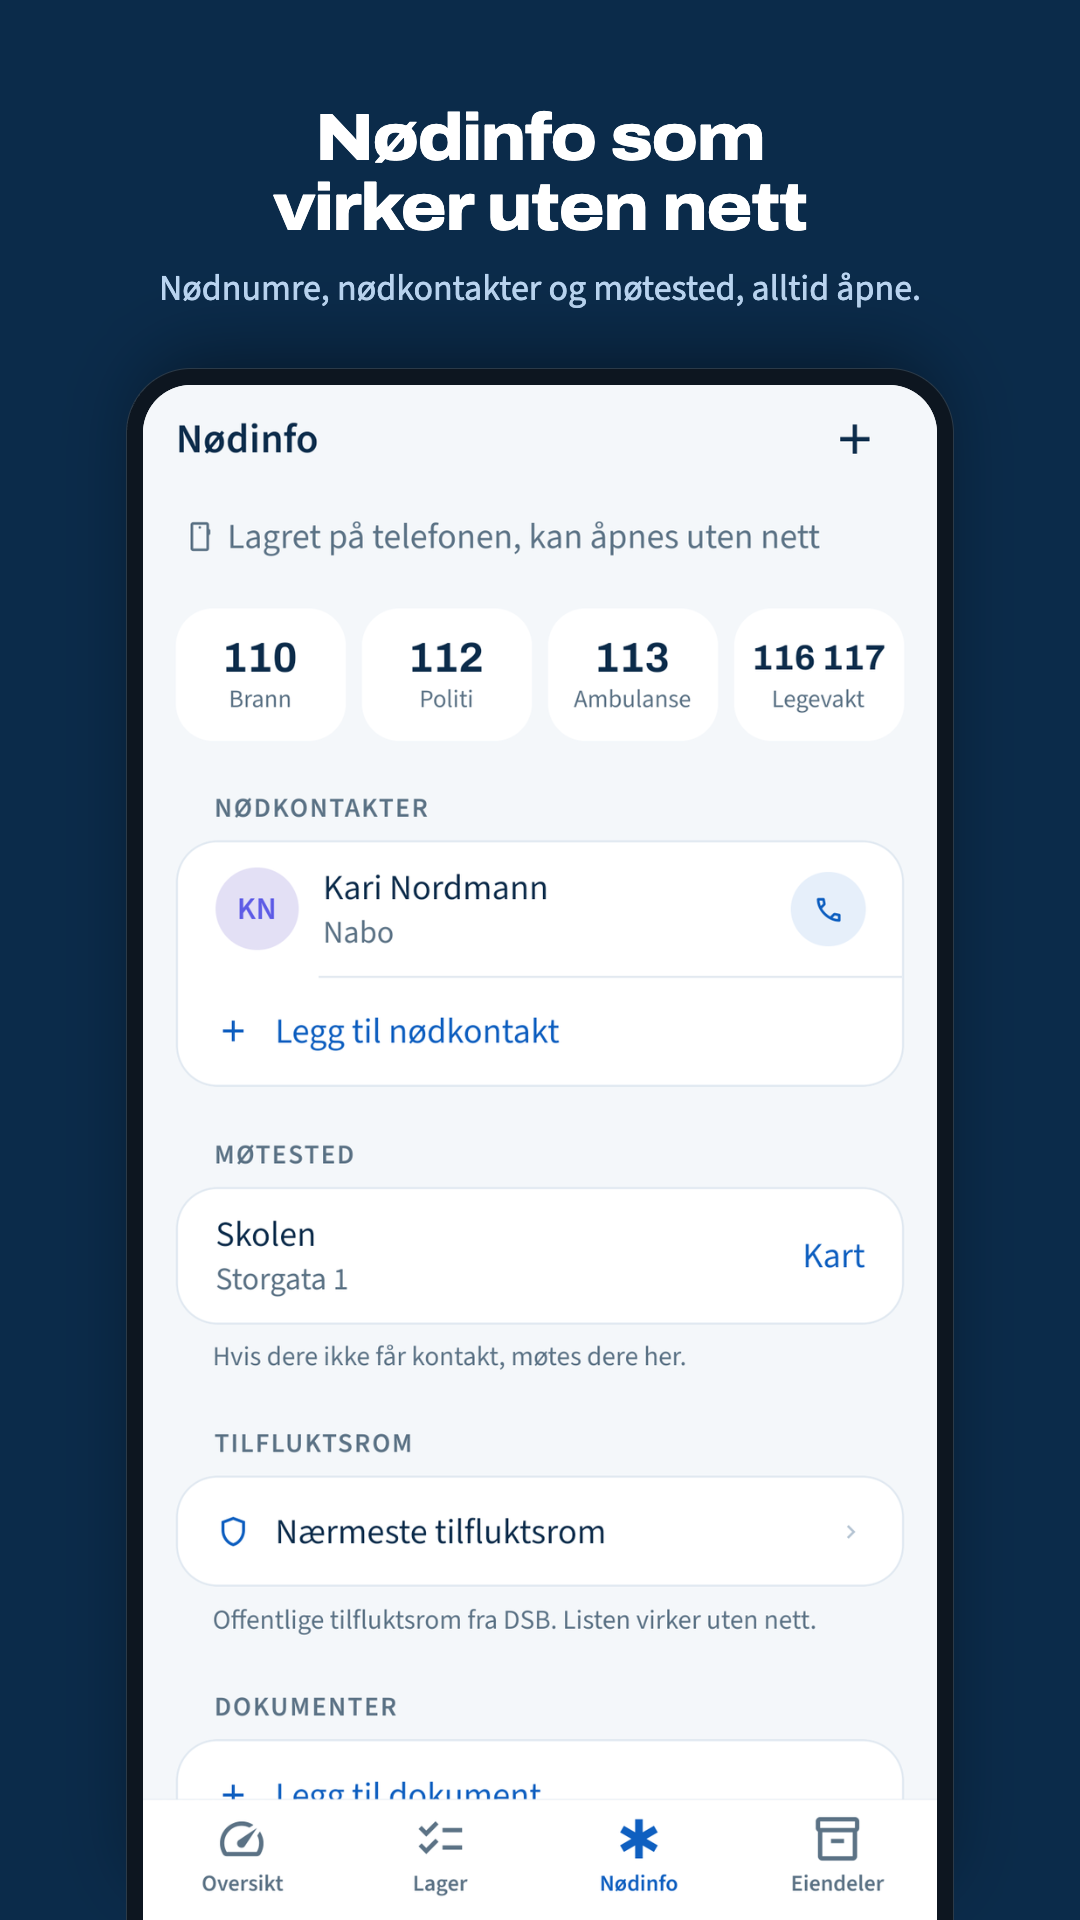
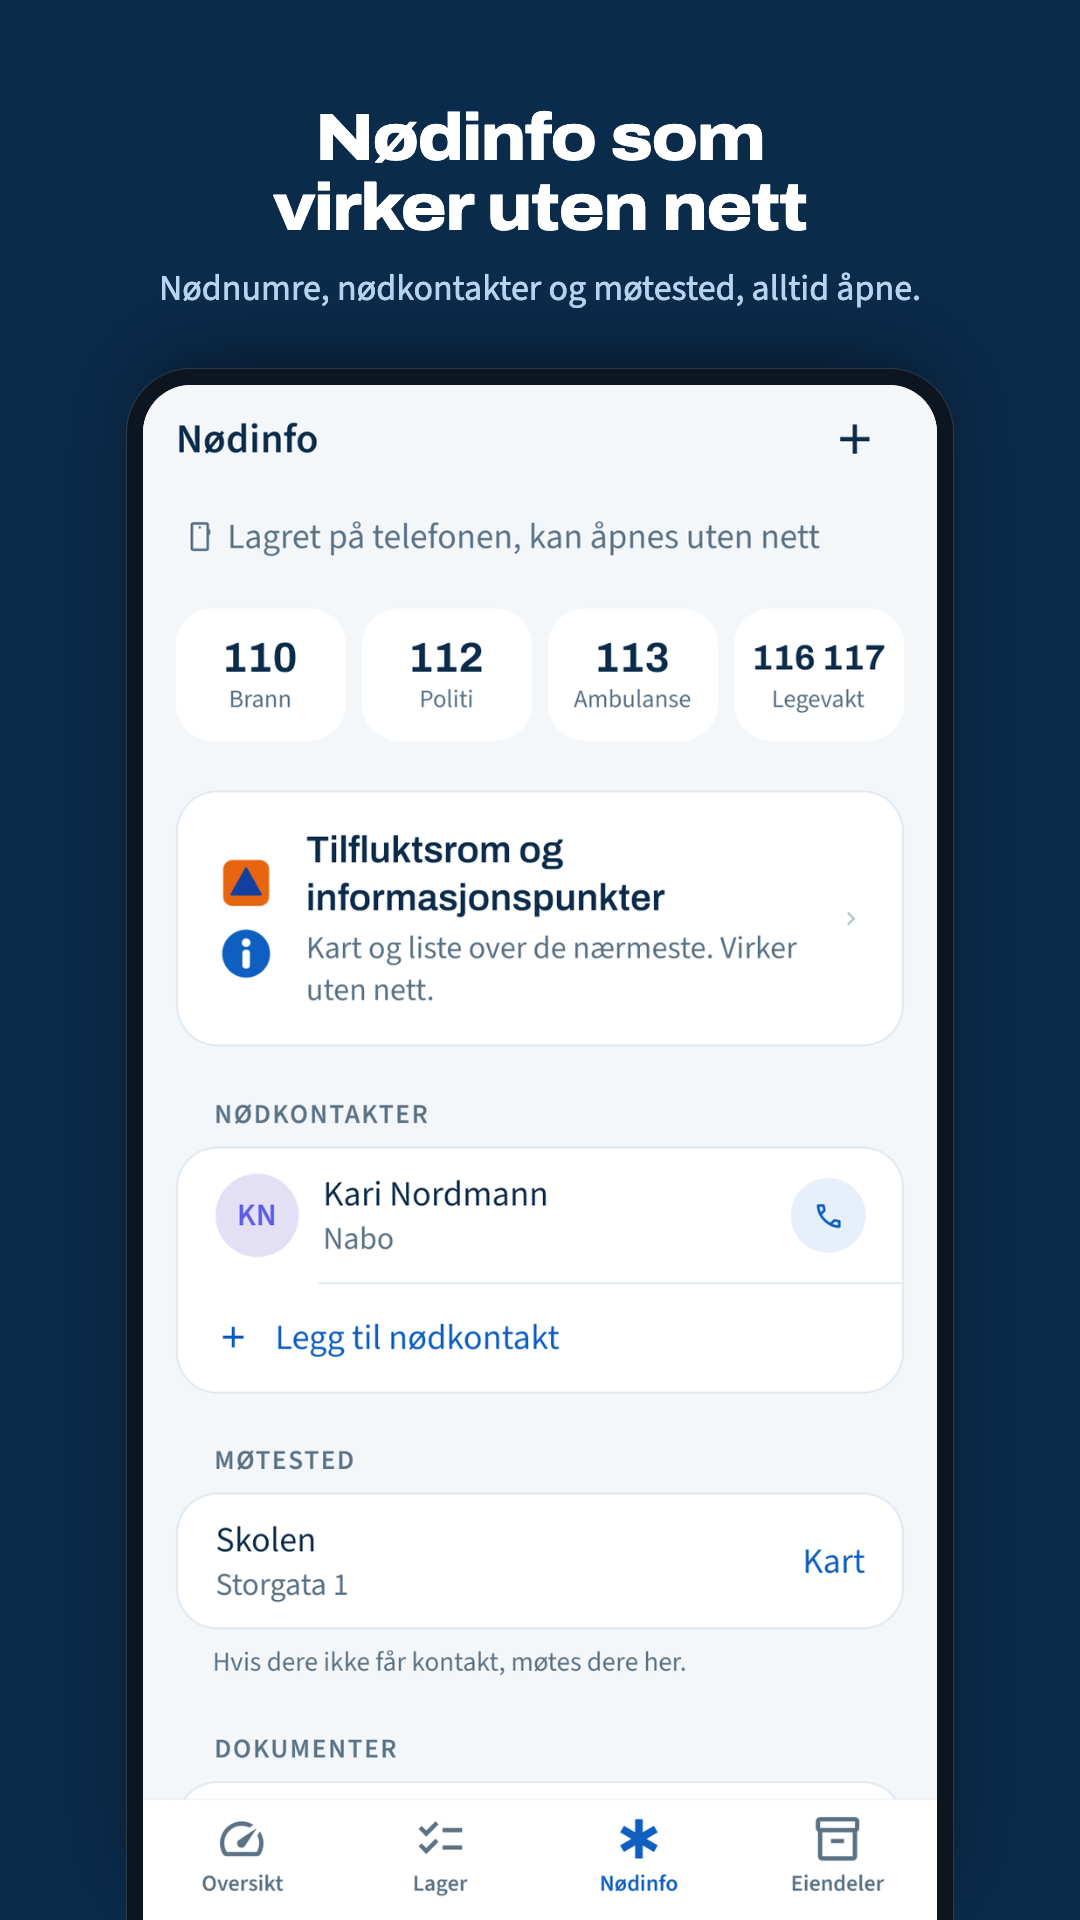
Store: Nødinfo screenshot with the new card, 1.7.1 release notes

diff --git a/docs/store/listing.md b/docs/store/listing.md
@@ -118,3 +118,15 @@ Nytt: Nærmeste tilfluktsrom under Nødinfo.
 Rommene er fra DSBs oversikt over offentlige tilfluktsrom.
 </no-NO>
 ```
+
+1.7.1 (2026-10-27, approved by Mikkel, under 500 characters):
+
+```
+<no-NO>
+Nytt: Kommunenes informasjonspunkter.
+• Se hvor kommunen gir informasjon og hjelp hvis strøm, mobil og internett er borte, på kart og i en egen liste ved tilfluktsrommene.
+• Tilfluktsrom og informasjonspunkter ligger nå rett under nødnumrene i Nødinfo.
+• Appen finner posisjonen med GPS også uten mobilnett.
+Informasjonspunktene er hentet fra kommunenes nettsider.
+</no-NO>
+```
